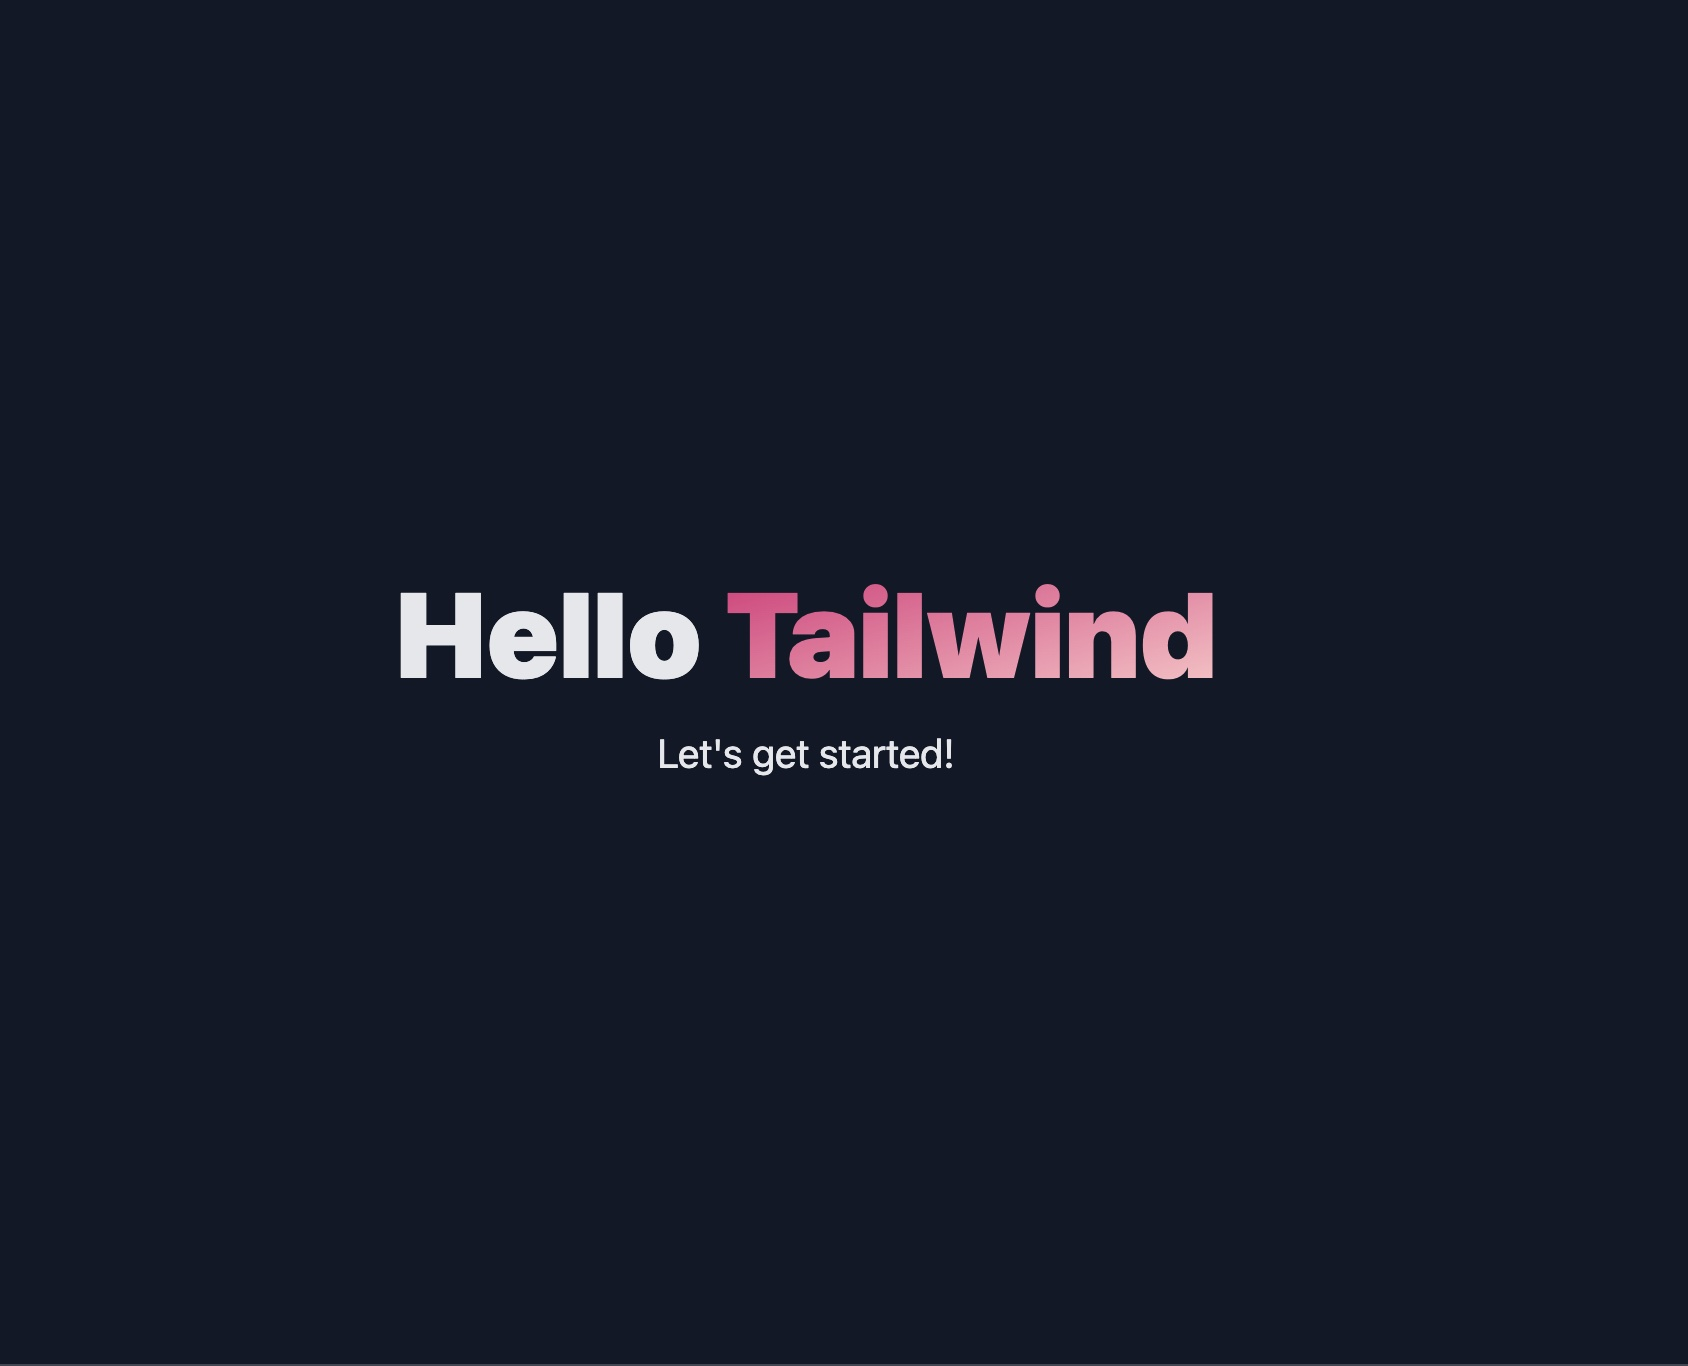
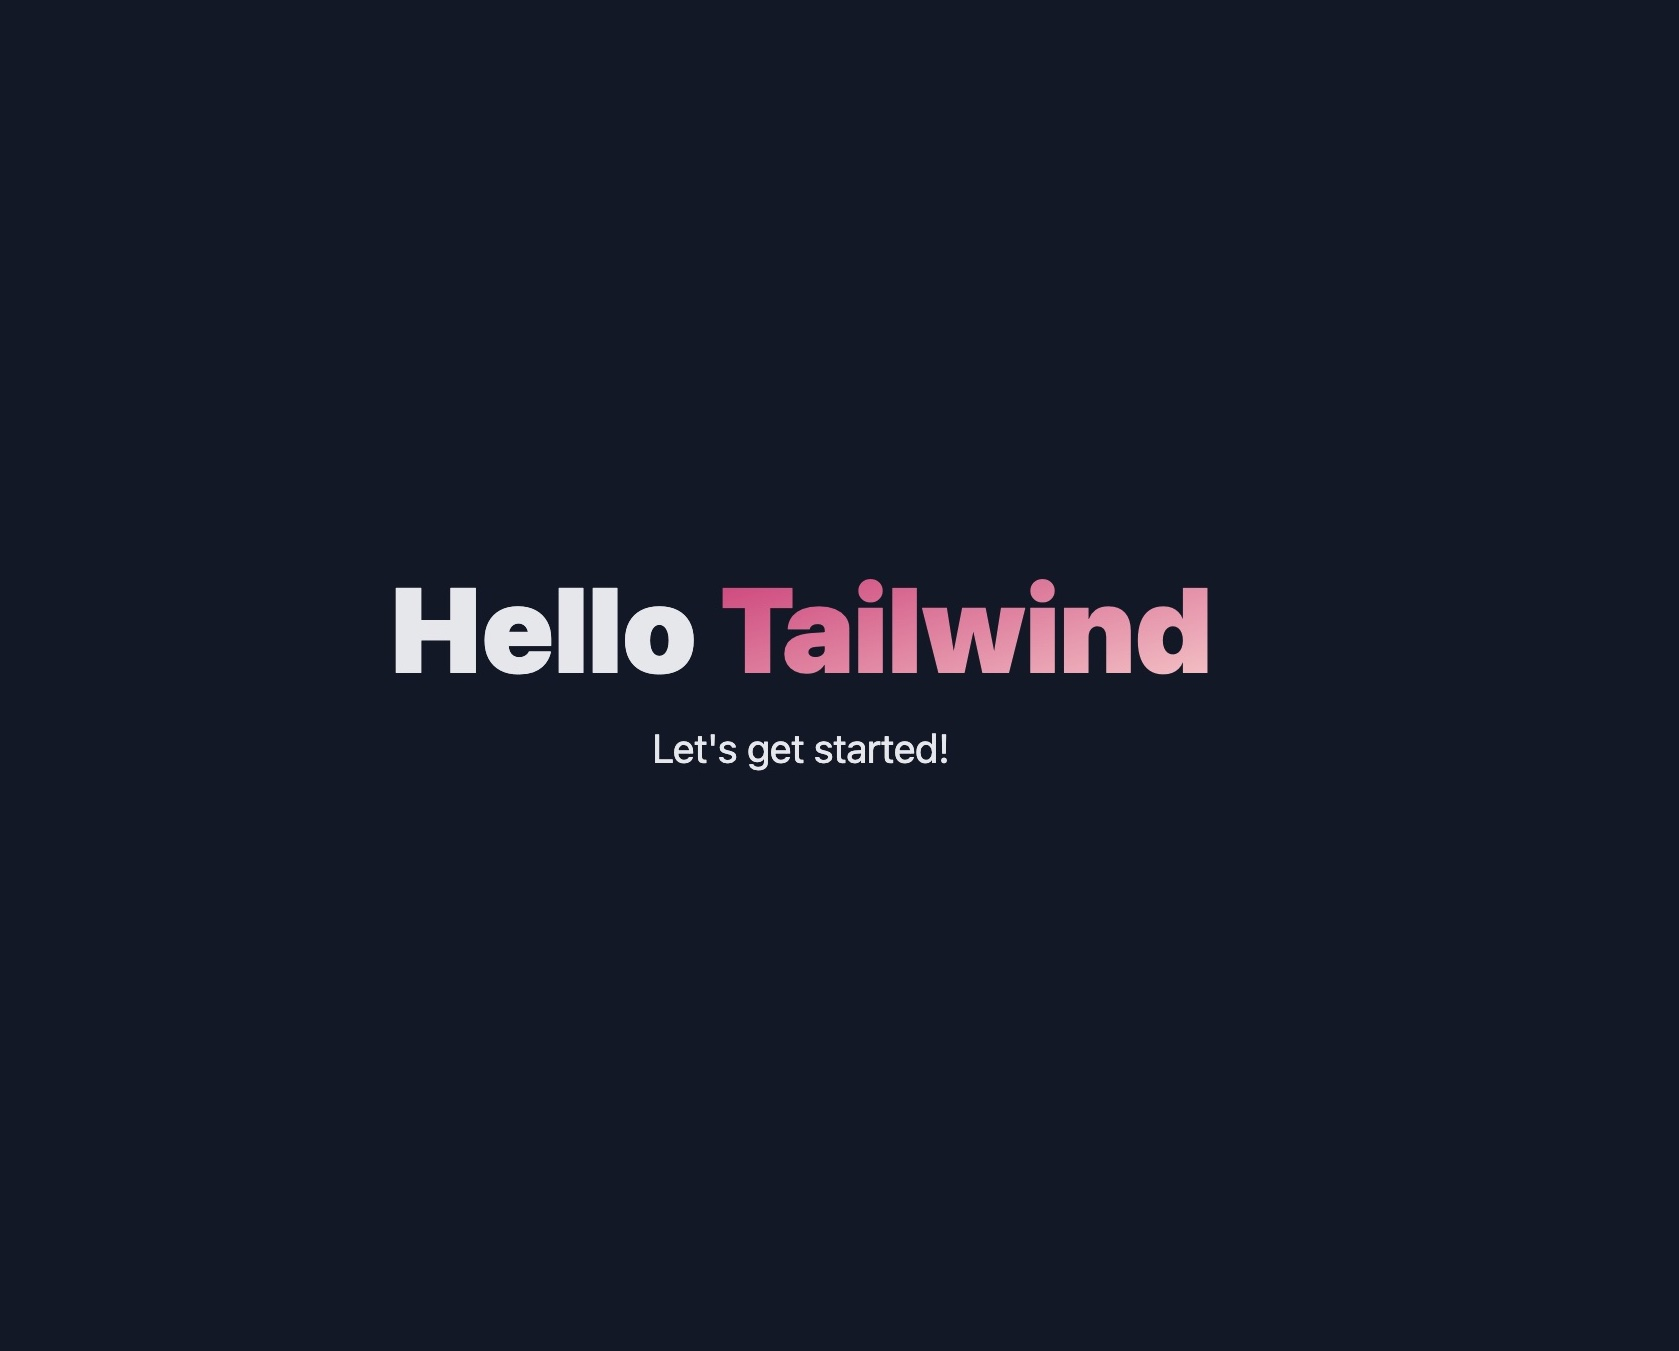
add disclaimer to phoenix article

diff --git a/components/Disclaimer.tsx b/components/Disclaimer.tsx
@@ -1,6 +1,6 @@
 export default function Disclaimer({ children }) {
   return (
-    <div className="bg-gray-100 dark:bg-gray-700 p-2 border-l-8 px-8 border-gray-300 dark:border-gray-500">
+    <div className="bg-gray-200 dark:bg-gray-800 p-2 border-l-8 px-8 border-gray-400 rounded-md dark:border-gray-500">
       {children}
     </div>
   );